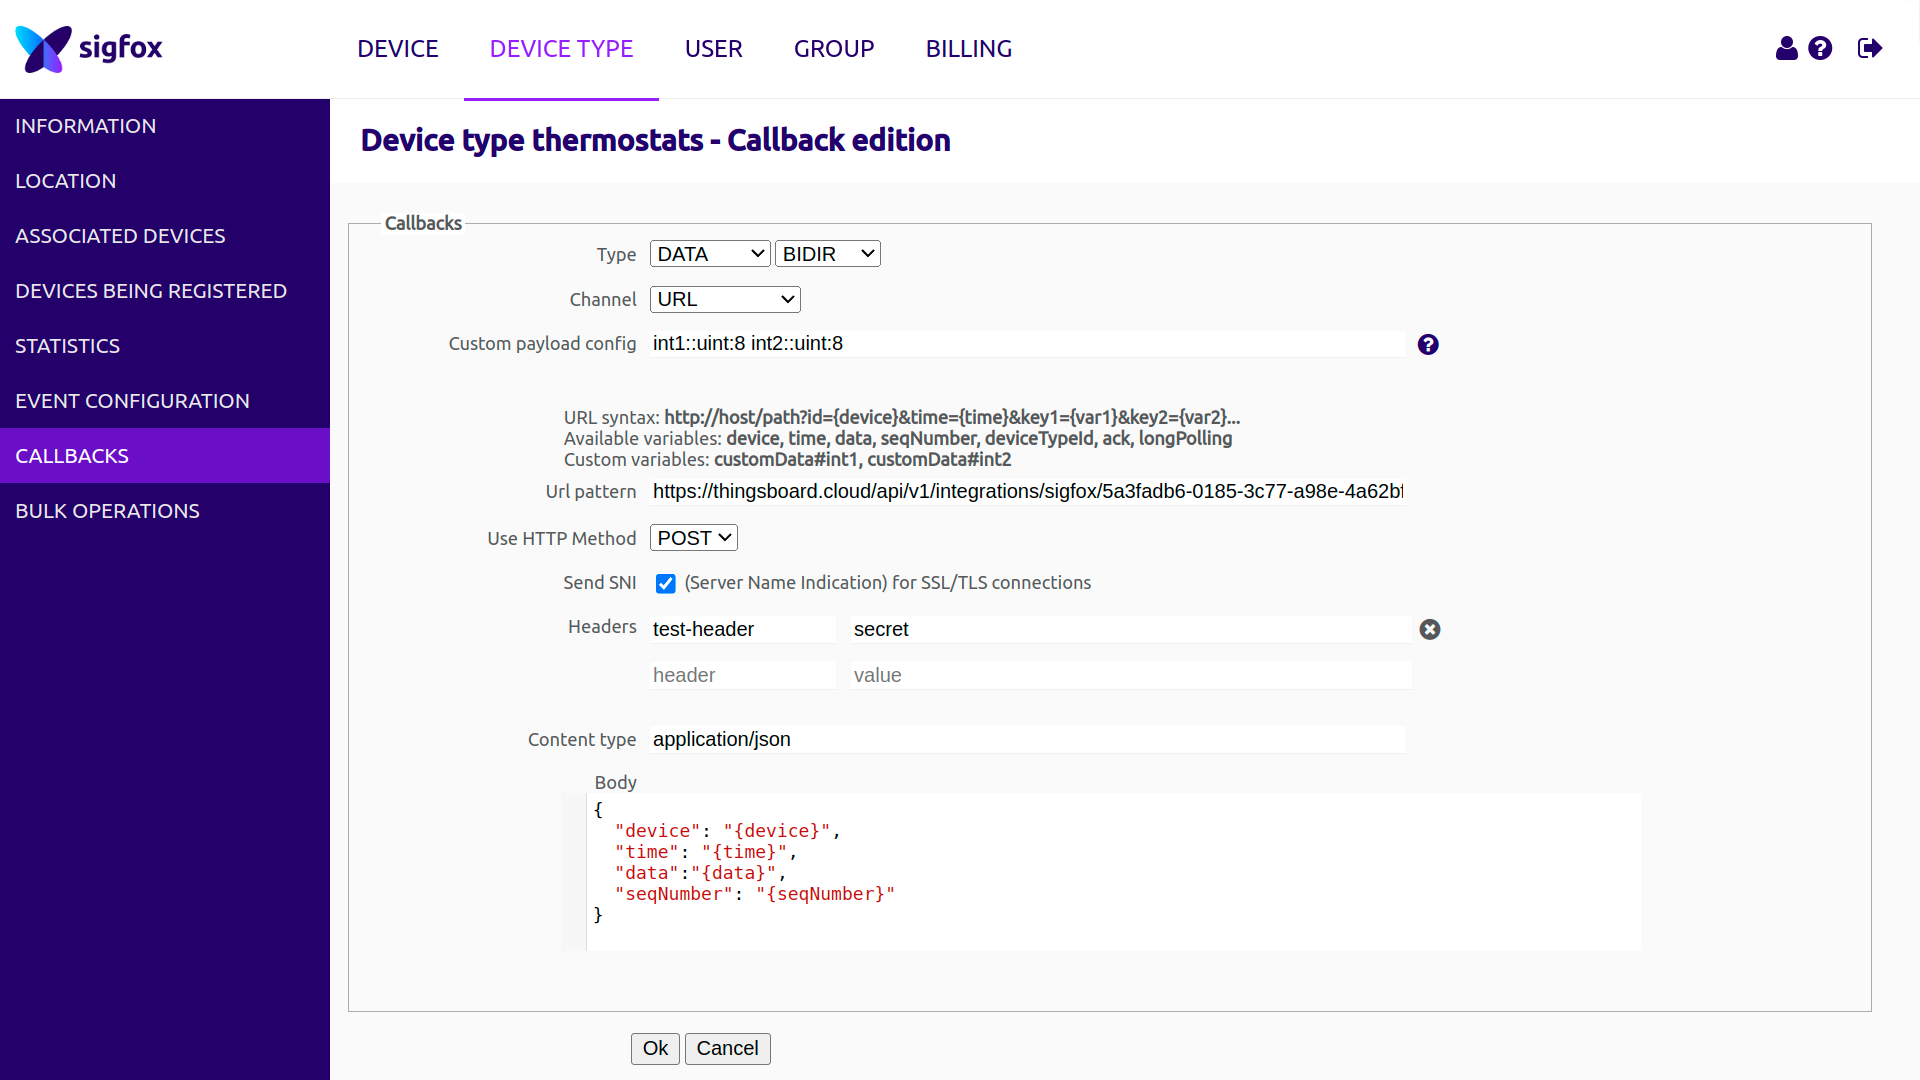
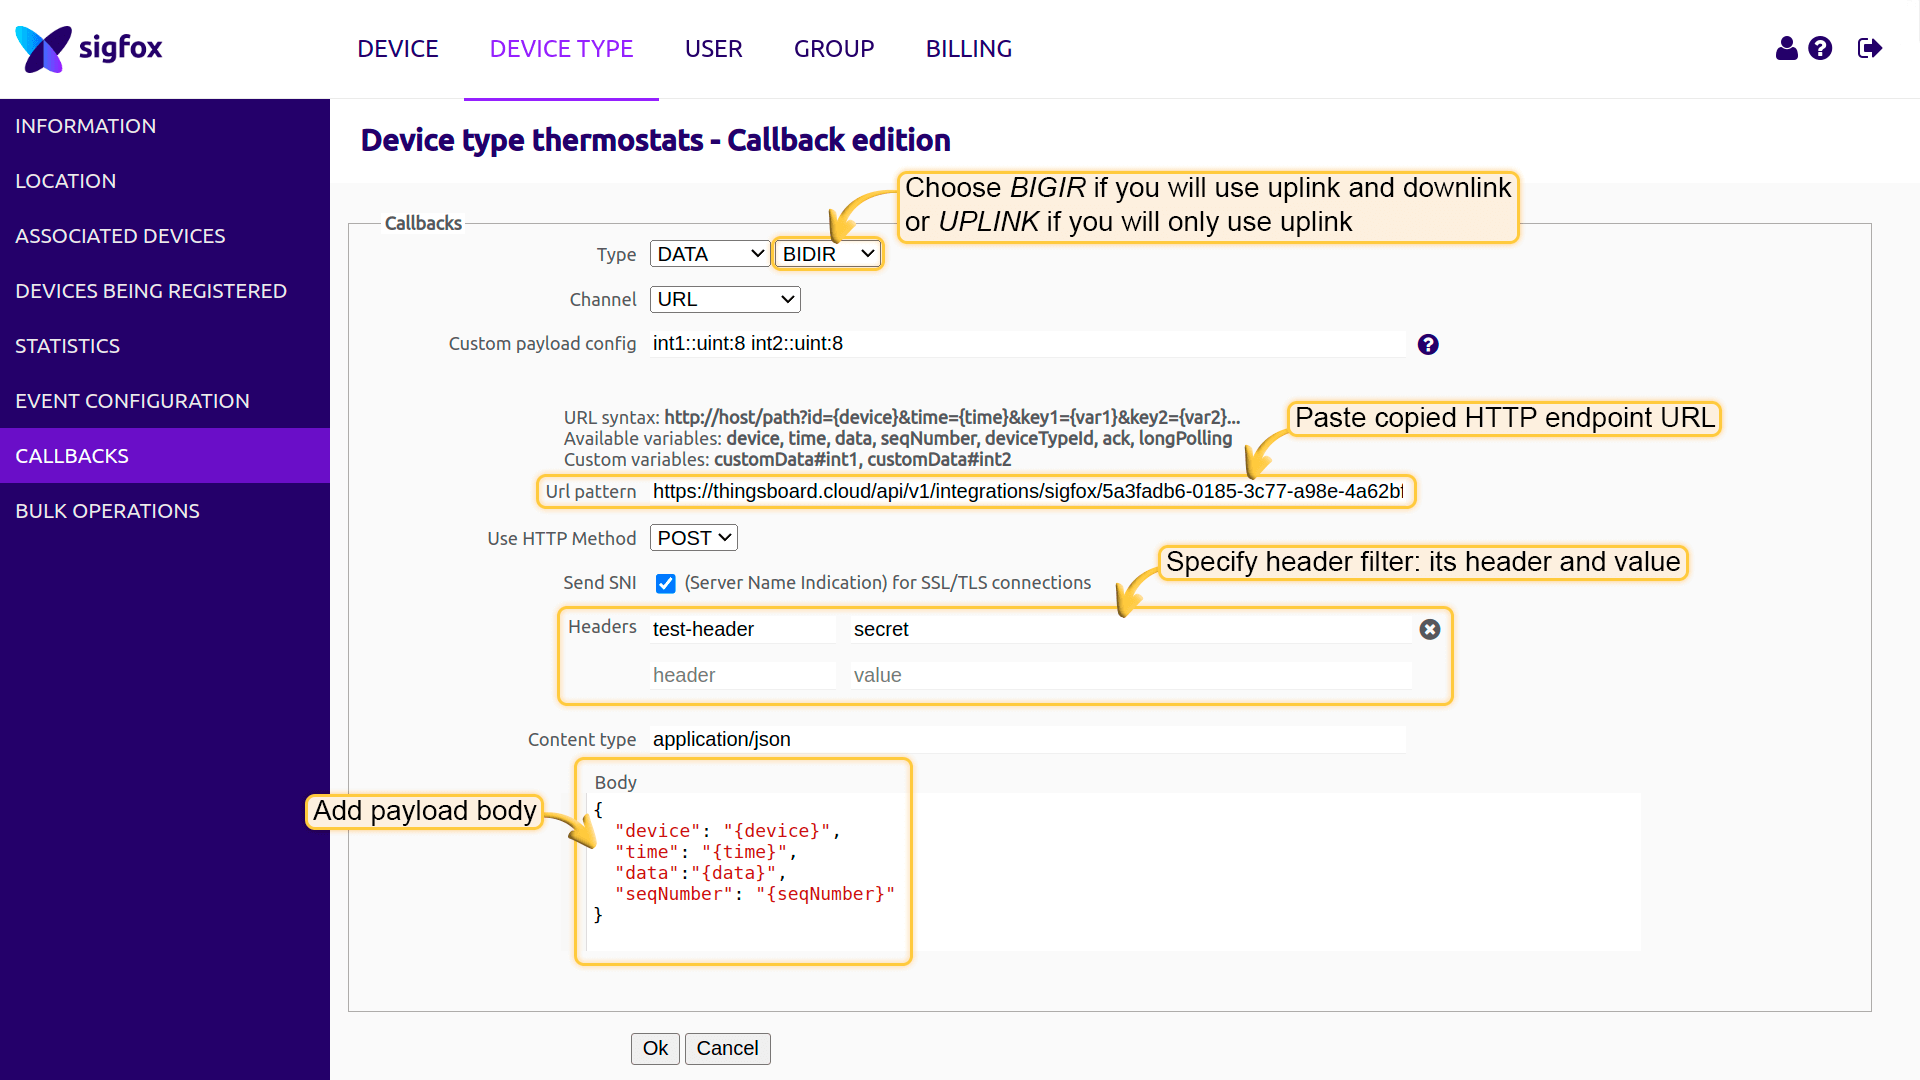
sigfox-doc-paas-done

Changed region(s): [[0.1562, 0.3667, 0.9062, 0.9167], [0.375, 0.1528, 0.8125, 0.275]]

diff --git a/_includes/docs/pe/user-guide/integrations/sigfox.md b/_includes/docs/pe/user-guide/integrations/sigfox.md
@@ -18,25 +18,27 @@ Please review the integration diagram to learn more.
 In this tutorial, we will use:
 
 {% if docsPrefix == "pe/" %}
-- The instance of [ThingsBoard Professional Edition](https://thingsboard.io/docs/user-guide/install/pe/installation-options/) installed locally;
+ - The instance of [ThingsBoard Professional Edition](https://thingsboard.io/docs/user-guide/install/pe/installation-options/) installed locally;
   {% endif %}
   {% if docsPrefix == "paas/" %}
-- ThingsBoard Professional Edition instance — [thingsboard.cloud](https://thingsboard.cloud);
+ - ThingsBoard Professional Edition instance — [thingsboard.cloud](https://thingsboard.cloud);
   {% endif %}
- 
- - working sigfox device;
 
  - you must have a [Sigfox](https://www.sigfox.com/) account.
 
-Let’s assume that we have a device **Sigfox-6529853**. Our sensor device publishes "temperature", "humidity", "co2" and  "co2Baseline" readings.
+ - a device registered with Sigfox;
+
+
+
+Let’s assume that we have a device **Sigfox-2203961**. Our sensor device publishes "temperature", "humidity", "co2" and  "co2Baseline" readings.
 
 ### SigFox Integration Configuration
 
 #### Create Uplink Converter
 
-Before creating the integration, you need to create an Uplink converter in Data converters. Uplink is necessary in order to convert the incoming data from the device into the required format for displaying them in ThingsBoard. 
+Before creating the integration, you need to create an **Uplink converter**. Uplink converter is necessary in order to convert the incoming data from the device into the required format for displaying them in ThingsBoard.
 
-Click on the "plus" and on “Create new converter”. To view the events, enable Debug. In the function decoder field, specify a script to parse and transform data.
+To create an Uplink Converter go to **Data Converters** section and Click **Add new data converter** —> **Create new converter**. Name it "**SigFox Uplink Converter**" and select type **Uplink**. To view the events, enable **Debug mode**. In the function decoder field, specify a script to parse and transform data.
 
 {% capture difference %}
 **NOTE**
@@ -64,6 +66,13 @@ JavaScript<small></small>%,%anonymous%,%templates/integration/sigfox/sigfox-upli
 ![image](/images/user-guide/integrations/sigfox/sigfox-integration-setup-1-paas.png)
 {% endif %}
 
+{% capture difference %}
+**NOTE**
+<br>
+If the "Allow create devices or assets" checkbox is unchecked, when sending a message to thingsboard with any parameters of the device (or asset), if such a device (asset) does not exist, then device (asset) will not be created.
+{% endcapture %}
+{% include templates/info-banner.md content=difference %}
+
  - Add recently created **SigFox Uplink Converter**.
 
 {% if docsPrefix == "pe/" %}
@@ -84,7 +93,7 @@ JavaScript<small></small>%,%anonymous%,%templates/integration/sigfox/sigfox-upli
 
  - Copy **SigFox endpoint URL** - we will use it later.
 
-If necessary, you can specify additional parameters, without which the data will not be included in the integration. To do this, check the **Enable security** checkbox and click on the Headers filter. Specify an arbitrary value and save the changes.
+If necessary, you can specify additional parameters, without which the data will not be included in the integration. To do this, check the **Enable security** checkbox and click "Add" entity button. Specify an arbitrary header and value.
 
  - Click **Add** to create an integration.
 
@@ -102,7 +111,7 @@ Go to your **Sigfox** account -> **Device type** -> **Callbacks** tab.
 Specify the copied **HTTP endpoint URL** in **URL pattern** line and specify **header filter**.
 Add a message body whose structure matches the message from your device.
 
-Click **Add**.
+Save changes.
 
 {% if docsPrefix == "pe/" %}
 ![image](/images/user-guide/integrations/sigfox/sigfox-device-callbacks-1-pe.png)
@@ -113,8 +122,8 @@ Click **Add**.
 
 After this, the device is ready to send data to Thingsboard.
 
-Once you go to **Device Groups** -> **All** you should find a **Sigfox-6529853** device provisioned by the Integration. 
-Click on the device, go to the **Latest Telemetry** tab to see the “temperature” key and its value (-40) there, the “co2Baseline” key and its value (400),the “co2” key and its value (0) and also the “humidity” key and its value (0) there as well.
+Once you go to **Device Groups** you should find **UC-0023 Sigfox Airwits CO2** device group (your group name may differ from the one shown in this example). In this group you should find the **Sigfox-2203961** device provisioned by the Integration. 
+Click on the device, go to the **Latest Telemetry** tab to see the keys and their values.
 
 {% if docsPrefix == "pe/" %}
 ![image](/images/user-guide/integrations/sigfox/sigfox-integration-create-device-1-pe.png)
@@ -148,12 +157,62 @@ Received data can also be viewed in the Uplink converter. In the **"In"** and **
 ![image](/images/user-guide/integrations/sigfox/sigfox-uplink-converter-events-out-paas.png)
 {% endif %}
 
-{% capture difference %}
-**NOTE**
-<br>
-If the "Allow create devices or assets" checkbox is unchecked, when sending a message to thingsboard with any parameters of the device (or asset), if such a device (asset) does not exist, then device (asset) will not be created.
-{% endcapture %}
-{% include templates/info-banner.md content=difference %}
+## Advanced usage: Downlink
+
+Create another converter with the name "**SigFox Downlink Converter**" and select type **Downlink**. To see events - enable **Debug mode**.
+
+{% capture sigfoxdownlinkconverterconfig %}
+TBEL<small>Recommended</small>%,%accessToken%,%templates/integration/sigfox/sigfox-downlink-converter-config-tbel.md%br%
+JavaScript<small></small>%,%anonymous%,%templates/integration/sigfox/sigfox-downlink-converter-config-javascript.md{% endcapture %}
+
+{% include content-toggle.html content-toggle-id="sigfoxdownlinkconverterconfig" toggle-spec=sigfoxdownlinkconverterconfig %}
+
+Now you have to add downlink converter to the integration.
+
+{% if docsPrefix == "pe/" %}
+![image](/images/user-guide/integrations/sigfox/sigfox-add-downlink-converter-pe.png)
+{% endif %}
+{% if docsPrefix == "paas/" %}
+![image](/images/user-guide/integrations/sigfox/sigfox-add-downlink-converter-paas.png)
+{% endif %}
+
+When integration configured, we need to go to **Rule chains**, choose **Root Rule Chain** and here create rule node **Integration Downlink**. Input some name here, choose previously created SigFox integration and tap Add.
+
+{% if docsPrefix == "pe/" %}
+![image](/images/user-guide/integrations/sigfox/sigfox-rule-chain-downlink-1-pe.png)
+{% endif %}
+{% if docsPrefix == "paas/" %}
+![image](/images/user-guide/integrations/sigfox/sigfox-rule-chain-downlink-1-paas.png)
+{% endif %}
+
+After these steps, we need to tap on a right grey circle of rule node **message type switch** and drag this circle to left side of **Integration Downlink**. Here let us choose **Attribute Update**, tap "Add" and save Root Rule Chains.
+
+{% if docsPrefix == "pe/" %}
+![image](/images/user-guide/integrations/sigfox/sigfox-rule-chain-downlink-2-pe.png)
+{% endif %}
+{% if docsPrefix == "paas/" %}
+![image](/images/user-guide/integrations/sigfox/sigfox-rule-chain-downlink-2-paas.png)
+{% endif %}
+
+### Test Downlink
+
+To test downlink, create some **shared attribute** on your device and send some Uplink message on this device.
+
+{% if docsPrefix == "pe/" %}
+![image](/images/user-guide/integrations/sigfox/sigfox-create-shared-attribute-pe.png)
+{% endif %}
+{% if docsPrefix == "paas/" %}
+![image](/images/user-guide/integrations/sigfox/sigfox-create-shared-attribute-paas.png)
+{% endif %}
+
+Go to your **Sigfox** account -> choose your device -> **Mesages** tab. And you will see Downlink message
+
+{% if docsPrefix == "pe/" %}
+![image](/images/user-guide/integrations/sigfox/sigfox-downlink-message-2-pe.png)
+{% endif %}
+{% if docsPrefix == "paas/" %}
+![image](/images/user-guide/integrations/sigfox/sigfox-downlink-message-2-paas.png)
+{% endif %}
 
 ## Video tutorial
  

diff --git a/_includes/templates/integration/sigfox/sigfox-uplink-converter-config-tbel.md b/_includes/templates/integration/sigfox/sigfox-uplink-converter-config-tbel.md
@@ -1,2 +1,69 @@
 You can use the following code, copy it to the decoder function section:
 
+```javascript
+/** Decoder **/
+
+// decode payload to string
+var json = decodeToJson(payload);
+var deviceName = 'Sigfox-' + json.device;
+var deviceType = 'Sigfox Airwits CO2';
+var groupName = 'UC-0023 Sigfox Airwits CO2';
+
+var attrByte = parseInt(json.data.substring(0, 2), 16); // force javascript to convert to INT
+var autoCalibration = (attrByte & 0x1) === 1 ? "on" : "off"; // bitmask for first bit
+var zeroPointAdjusted = ((attrByte & 0x2) >> 1) === 1 ? true : false; // bitmask for second bit; right shift one bit to get second bit to the LSB position
+var transmitPower = ((attrByte & 0x4) >> 2) === 1 ? "full" : "low"; // bitmask for third bit; right shift two bits to get third bit to the LSB position
+var powerControl = ((attrByte & 0x8) >> 3) === 1 ? "on" : "off"; // bitmask for third bit; right shift three bits to get fourth bit to the LSB position
+var firmwareVersion = attrByte >> 4; // shift right to bring the nibble down to the first four bits; result is INT
+
+var temperature = parseInt(json.data.substring(2, 6), 16) / 10.0 - 40;
+var humidity = parseInt(json.data.substring(6, 8), 16);
+var co2 = parseInt(json.data.substring(8, 12), 16);
+
+var co2Baseline = 0;
+var co2BaselineN = parseInt(json.data.substring(12, 14), 16);
+if(co2BaselineN === 0){ // see documentation for more information on baseline
+    co2Baseline = 400;
+}else{
+    co2Baseline = co2BaselineN * 10;
+}
+
+var result = {
+// Use deviceName and deviceType or assetName and assetType, but not both.
+    deviceName: deviceName,
+    deviceType: deviceType,
+    groupName: groupName,
+    telemetry: {
+        ts: json.time + "000",
+        values:{
+            //rssi: parseFloat(json.rssi),
+            //snr: parseFloat(json.snr),
+            temperature: toFixed(temperature, 1),
+            humidity: humidity,
+            co2: co2,
+            co2Baseline: co2Baseline
+        }
+    },
+    attributes:{
+        //station: json.station,
+        sigfox_id: json.device,
+        autoCalibration: autoCalibration,
+        zeroPointAdjusted: zeroPointAdjusted,
+        transmitPower: transmitPower,
+        powerControl: powerControl,
+        fwVersion: firmwareVersion
+    }
+};
+
+/** Helper functions 'decodeToString' and 'decodeToJson' are already built-in **/
+
+return result;
+```
+{: .copy-code}
+
+{% if docsPrefix == "pe/" %}
+![image](/images/user-guide/integrations/sigfox/sigfox-uplink-converter-tbel-pe.png)
+{% endif %}
+{% if docsPrefix == "paas/" %}
+![image](/images/user-guide/integrations/sigfox/sigfox-uplink-converter-tbel-paas.png)
+{% endif %}

diff --git a/_includes/templates/integration/sigfox/sigfox-downlink-converter-config-javascript.md b/_includes/templates/integration/sigfox/sigfox-downlink-converter-config-javascript.md
@@ -1,0 +1,29 @@
+You can use our example of Downlink Converter, or write your own according to your configuration:
+
+```javascript
+// Encode downlink data from incoming Rule Engine message
+// msg - JSON message payload downlink message json
+// msgType - type of message, for ex. 'ATTRIBUTES_UPDATED', 'POST_TELEMETRY_REQUEST', etc.
+// metadata - list of key-value pairs with additional data about the message
+// integrationMetadata - list of key-value pairs with additional data defined in Integration executing this converter
+// Result object with encoded downlink payload
+var result = {
+    // downlink data content type: JSON, TEXT or BINARY (base64 format)
+    contentType: "TEXT",
+    // downlink data
+    data:  msg.test,
+    // Optional metadata object presented in key/value format
+    metadata: {
+        "device": "2203961"
+    }
+};
+return result;
+```
+{: .copy-code}
+
+{% if docsPrefix == "pe/" %}
+![image](/images/user-guide/integrations/sigfox/sigfox-create-downlink-converter-java-1-pe.png)
+{% endif %}
+{% if docsPrefix == "paas/" %}
+![image](/images/user-guide/integrations/sigfox/sigfox-create-downlink-converter-java-1-paas.png)
+{% endif %}

diff --git a/_includes/templates/integration/sigfox/sigfox-downlink-converter-config-tbel.md b/_includes/templates/integration/sigfox/sigfox-downlink-converter-config-tbel.md
@@ -1,0 +1,29 @@
+You can use our example of Downlink Converter, or write your own according to your configuration:
+
+```javascript
+// Encode downlink data from incoming Rule Engine message
+// msg - JSON message payload downlink message json
+// msgType - type of message, for ex. 'ATTRIBUTES_UPDATED', 'POST_TELEMETRY_REQUEST', etc.
+// metadata - list of key-value pairs with additional data about the message
+// integrationMetadata - list of key-value pairs with additional data defined in Integration executing this converter
+// Result object with encoded downlink payload
+var result = {
+    // downlink data content type: JSON, TEXT or BINARY (base64 format)
+    contentType: "TEXT",
+    // downlink data
+    data:  msg.test,
+    // Optional metadata object presented in key/value format
+    metadata: {
+        "device": "2203961"
+    }
+};
+return result;
+```
+{: .copy-code}
+
+{% if docsPrefix == "pe/" %}
+![image](/images/user-guide/integrations/sigfox/sigfox-create-downlink-converter-tbel-1-pe.png)
+{% endif %}
+{% if docsPrefix == "paas/" %}
+![image](/images/user-guide/integrations/sigfox/sigfox-create-downlink-converter-tbel-1-paas.png)
+{% endif %}

diff --git a/_includes/templates/integration/sigfox/sigfox-uplink-converter-config-javascript.md b/_includes/templates/integration/sigfox/sigfox-uplink-converter-config-javascript.md
@@ -5,8 +5,6 @@ You can use the following code, copy it to the decoder function section:
 
 // decode payload to string
 var json = decodeToJson(payload);
-
-
 var deviceName = 'Sigfox-' + json.device;
 var deviceType = 'Sigfox Airwits CO2';
 var groupName = 'UC-0023 Sigfox Airwits CO2';
@@ -77,4 +75,9 @@ return result;
 ```
 {: .copy-code}
 
+{% if docsPrefix == "pe/" %}
 ![image](/images/user-guide/integrations/sigfox/sigfox-uplink-converter-java-pe.png)
+{% endif %}
+{% if docsPrefix == "paas/" %}
+![image](/images/user-guide/integrations/sigfox/sigfox-uplink-converter-java-paas.png)
+{% endif %}
